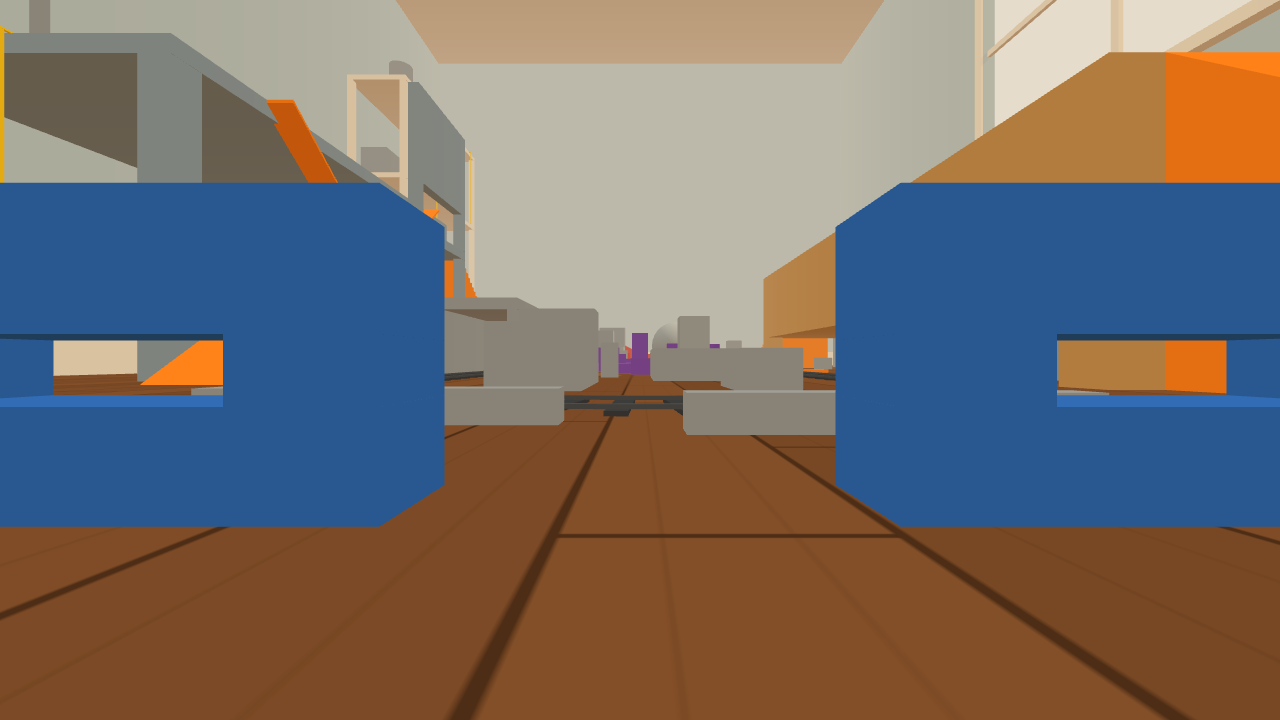
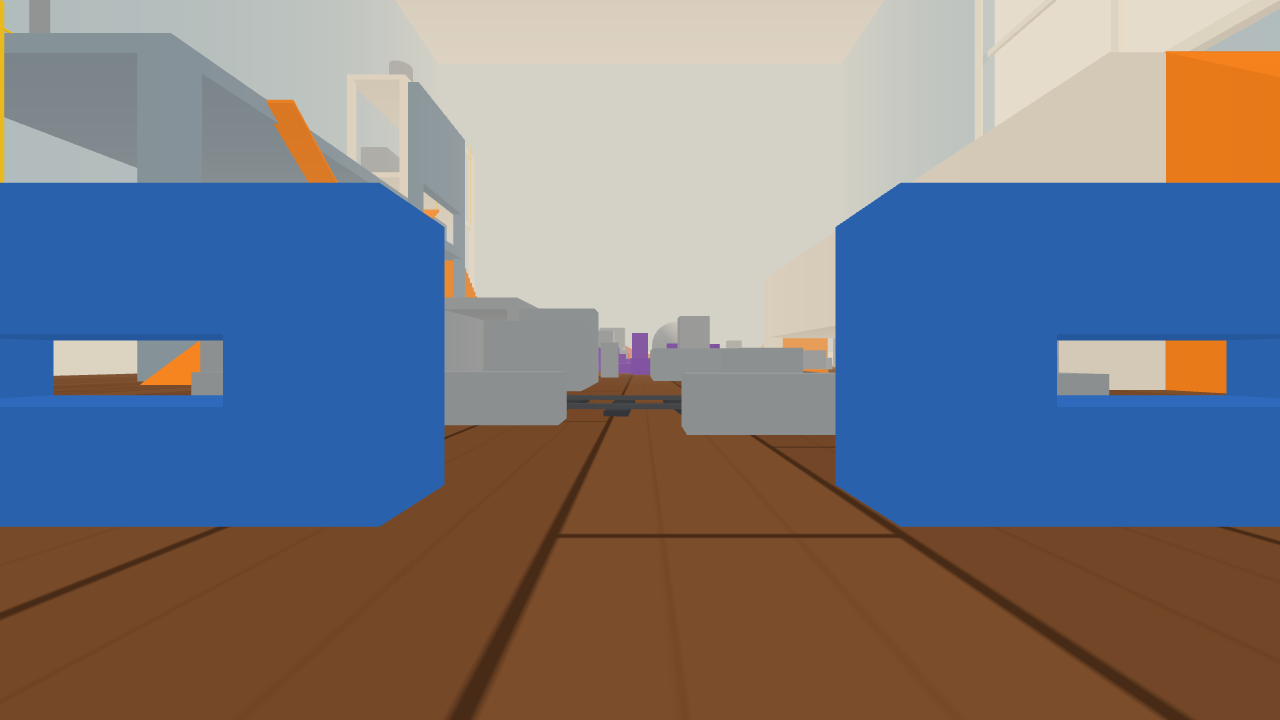
Checkpoint Round 1 fix pass in progress
Work-in-progress snapshot of the builder's fixes so nothing is lost if
the container is reclaimed; not yet verified by the testers.

Claude-Session: https://claude.ai/code/session_01JNcTgQhGiWa2cD86NUYwZY

diff --git a/bedroom-battalion/index.html b/bedroom-battalion/index.html
@@ -55,29 +55,32 @@ const CONFIG = {
             eyeLerp: 7,          // u/s the eye moves between stand and crouch height
             stepSmooth: 16 },    // 1/s decay of the camera offset that hides step-up pops
   move: { walk: 5, sprint: 7, crouch: 2.5,
-          groundAccelTime: 0.10, groundStopTime: 0.08, airControl: 0.25,
+          groundAccelTime: 0.10, groundStopTime: 0.08, airControl: 0.12,
           gravity: 22, jumpVel: 7.8, stepUp: 0.65, maxSlopeDeg: 50, slopeSpeedKeep: true,
           airStep: 0.2,          // ledge height forgiven while airborne
           jumpBuffer: 0.12, coyote: 0.08 },
-  climb: { speed: 3.5, grabRadius: 0.8, exitDist: 1, snapSpeed: 6, regrab: 0.45, stringHalfWidth: 0.11 },
+  climb: { speed: 5.5, grabRadius: 0.8, exitDist: 1, snapSpeed: 6, regrab: 0.45, stringHalfWidth: 0.11,
+           topRegrab: 0.5,      // s the string just topped out cannot be grabbed again
+           drawAbove: 2 },      // strings are drawn this far above their top surface so they show from on top
   fall: { safe: 10, perUnit: 5 },
   spring: { launchVel: [-4.5, 31, 0] },
-  camera: { fovVertical: 75, near: 0.05, far: 400 },
-  fog: { near: 30, far: 330 },
+  camera: { fovVertical: 75, near: 0.05, far: 400 },   // read live every frame
+  fog: { near: 10, far: 220 },                      // read live every frame, like camera
   sim: { hz: 60, maxStepsPerFrame: 15 },
   input: { sensitivity: 0.0022, pitchLimit: 1.54 },
   room: { x: 120, y: 90, z: 160, wall: 2, outY: -5 },
-  light: { sunDir: [1, -1, 0.15], sunIntensity: 2.4, hemiIntensity: 3.4,
+  light: { sunDir: [1, -1, 0.15], sunIntensity: 3.0, hemiIntensity: 3.0,
            shadowMap: 2048, shadowBias: -0.0005, shadowNormalBias: 0.02, shadowRadius: 2 },
   floor: { plank: 3.2, gap: 0.12, texPlanks: 4, texLength: 25.6 },
+  route: { lap: 1.5, lapThick: 0.05 },             // route colour lapped onto the surface at every ramp, bridge and stair head
   track: { cx: 60, xWest: 43, xEast: 77, z0: 52.5, z1: 107.5, radius: 17, gauge: 3.2, sleeperGap: 2,
            height: 0.3, sleeperLen: 4.4, sleeperWid: 0.7, railWid: 0.28 },
   spawn: { green: [60, 0, 20, Math.PI], tan: [60, 0, 140, 0] },
   nav: { arrive: 0.3, arriveY: 0.75, stuckTime: 2.5, timeout: 120, sweepStep: 0.1 },
   color: {
     haze: '#E6DCCB', wall: '#BFD3E0', trim: '#F2EFE6', ceiling: '#F5F2EA', plank: '#7A4E2E', plankGap: '#4A2E1A',
-    sun: '#FFE2B0', hemiSky: '#FFF1D6', hemiGround: '#B08D6A',
-    bed: '#C79A5E', blanket: '#3D5A99', sheet: '#E8EEF5', desk: '#8FA3B5', shelf: '#EFE9DD',
+    sun: '#FFE2B0', hemiSky: '#FFF8EC', hemiGround: '#D8CFC4',
+    bed: '#E9E4DA', blanket: '#3D5A99', sheet: '#E8EEF5', desk: '#8FA3B5', shelf: '#EFE9DD',
     fortGreen: '#2F6FD0', fortTan: '#D43C2E', ruin: '#7B4BB5',
     route: '#FF8A1F', string: '#FFD21F', cover: '#9AA3AD', spare: '#B9BEC6', track: '#4B5058', sleeper: '#3A3E45',
     hud: '#FFFFFF', accent: '#FFD21F', danger: '#E0281F'
@@ -274,7 +277,7 @@ function cyl(id, x, z, r, y0, y1, color, surface) {
 }
 function climbString(id, x, z, y0, y1, ex, ez) {
   const w = CONFIG.climb.stringHalfWidth;
-  vbox(x - w, x + w, z - w, z + w, y0, y1, CONFIG.color.string);
+  vbox(x - w, x + w, z - w, z + w, y0, y1 + CONFIG.climb.drawAbove, CONFIG.color.string);      // collider still ends at y1
   vbox(Math.min(x, x + ex * 0.7) - w, Math.max(x, x + ex * 0.7) + w, Math.min(z, z + ez * 0.7) - w, Math.max(z, z + ez * 0.7) + w, y1 - 0.02, y1 + 0.1, CONFIG.color.string);
   const c = addCollider({ id, kind: 'string', surface: 'fabric', x, z, ex, ez, x0: x - w, x1: x + w, y0, y1, z0: z - w, z1: z + w });
   STRINGS.push(c);
@@ -286,6 +289,7 @@ function stairs(id, x0, x1, zFoot, dir, n, rise, depth) {       // book stairs: 
     ibox(id + '.' + i, x0, x1, Math.min(za, zb), Math.max(za, zb), 0, rise * i, CONFIG.color.route, 'book');
   }
 }
+function lap(x0, x1, z0, z1, y) { vbox(x0, x1, z0, z1, y, y + CONFIG.route.lapThick, CONFIG.color.route); }   // visual only
 const mz = (z0, z1, mirror) => (mirror ? [160 - z1, 160 - z0] : [z0, z1]);     // north-south mirror rule
 function boxNS(id, x0, x1, z0, z1, y0, y1, color, surface) {    // object that exists on both halves
   box('n.' + id, x0, x1, z0, z1, y0, y1, color, surface);
@@ -385,6 +389,7 @@ function buildWorld(scene, renderer) {
   box('desk.notebook', 99, 111, 74, 86, 26, 26.4, G, 'book');
   for (let k = 0; k < 3; k++) box('desk.books.' + k, 111 + 0.6 * k, 119 - 0.6 * k, 86 + 0.6 * k, 93 - 0.6 * k, 26 + 1.2 * k, 27.2 + 1.2 * k, G, 'book');
   cyl('desk.pencilcup', 115.5, 98, 2.6, 26, 35, G, 'metal');
+  cyl('chair.stopper.n', 92.45, 73.3, 0.5, 17, 18, G, 'wood'); cyl('chair.stopper.s', 92.2, 86.7, 0.5, 17, 18, G, 'wood');   // seat stoppers
   boxNS('desk.eraser', 104, 108, 66, 68, 0, 1.2, G, 'plastic');
   cyl('desk.paperball', 108, 80, 2.5, 0, 4.5, G, 'card');
 
@@ -398,6 +403,7 @@ function buildWorld(scene, renderer) {
   box('s.tall.landing', 103.5, 108, 116, 122.1, 0, 20, RT, 'book');
   stairs('n.small.books', 103.5, 108, 9, 1, 34, 20 / 34, 0.85);                                   // route small_stairs
   box('n.small.landing', 103.5, 108, 37.9, 44, 0, 20, RT, 'book');
+  box('s.tall.guard', 108, 108.6, 122.1, 151, 0, 19, G, 'book'); box('n.small.guard', 108, 108.6, 9, 37.9, 0, 19, G, 'book');   // stair guards
   climbString('s.tall.str.L2a', 107.6, 130, 20, 40, 1, 0); climbString('s.tall.str.L2b', 107.6, 146, 20, 40, 1, 0);
   climbString('s.tall.str.L3a', 107.6, 136, 40, 60, 1, 0); climbString('s.tall.str.L3b', 107.6, 152, 40, 60, 1, 0);
   climbString('n.small.str.L2a', 107.6, 30, 20, 40, 1, 0); climbString('n.small.str.L2b', 107.6, 14, 20, 40, 1, 0);
@@ -406,6 +412,15 @@ function buildWorld(scene, renderer) {
   cyl('s.tall.L3.trophy', 115, 128, 2.5, 60, 69, G, 'metal'); box('s.tall.L3.books', 112, 119, 142, 149, 60, 61.2, G, 'book');
   box('n.small.L1.books', 114, 119.5, 18, 26, 20, 27, G, 'book'); cyl('n.small.L1.pot', 115, 36, 2, 20, 24, G, 'plastic');
   box('n.small.L2.books', 112, 119, 20, 27, 40, 41.2, G, 'book'); box('n.small.L2.clock', 113, 118, 34, 37, 40, 44, G, 'metal');
+
+  // ---- 4.4 route colour lapped 1.5 onto the surface each ramp, bridge and stair head reaches ----
+  const LP = CONFIG.route.lap;
+  lap(20, 32, 45, 45 + LP, 18); lap(22, 30, 115 - LP, 115, 18);                        // blanket slope, bed book stairs
+  lap(86, 92, 73, 73 + LP, 17); lap(86, 92, 87 - LP, 87, 17);                          // skateboard, chair book stairs
+  lap(95.5, 95.5 + LP, 64, 67, 26); lap(95.5, 95.5 + LP, 93, 96, 26);                  // ruler ramps onto the desk
+  lap(110, 113, 55, 55 + LP, 26); lap(110, 113, 44 - LP, 44, 20);                      // ruler bridge north: desk end, shelf end
+  lap(110, 113, 105 - LP, 105, 26); lap(110, 113, 116, 116 + LP, 20);                  // ruler bridge south
+  lap(108, 108 + LP, 117.2, 122.1, 20); lap(108, 108 + LP, 37.9, 42.8, 20);            // shelf book stairs onto L1
 
   // ---- 5. forts and ruin ----
   buildFort('n', false, C.fortGreen);
@@ -431,7 +446,8 @@ function buildWorld(scene, renderer) {
   // ---- 6. floor cover ----
   boxNS('W-a.1', 37, 40, 28, 31, 0, 3, G, 'wood'); boxNS('W-a.2', 37, 40, 31, 34, 0, 6, G, 'wood'); boxNS('W-a.3', 34, 37, 31, 34, 0, 3, G, 'wood');
   boxNS('W-b.car', 33, 36, 56, 62, 0, 2.2, G, 'plastic');
-  boxNS('C-a.crayon1', 50, 59, 30, 30.9, 0, 0.9, G, 'plastic'); boxNS('C-a.crayon2', 62, 71, 31.5, 32.4, 0, 0.9, G, 'plastic');
+  boxNS('W-c', 33, 36, 69, 72, 0, 3, G, 'wood');
+  boxNS('C-a.crayon1', 50, 59, 30, 31.3, 0, 1.3, G, 'plastic'); boxNS('C-a.crayon2', 62, 71, 31.5, 32.8, 0, 1.3, G, 'plastic');   // jumbo crayons
   boxNS('C-b.car', 52, 55, 43, 49, 0, 2.2, G, 'plastic');
   box('n.C-c.truck.bed', 63, 68, 44, 51, 0, 3.6, G, 'plastic'); box('n.C-c.truck.cab', 63, 68, 51, 54, 0, 5, G, 'plastic');
   box('s.C-c.marble.ramp', 63, 68, 106, 113, 0, 4, G, 'plastic'); box('s.C-c.marble.tower', 63, 68, 113, 116, 0, 8, G, 'plastic');
@@ -445,6 +461,7 @@ function buildWorld(scene, renderer) {
   box('n.C-f.block', 53, 56, 67, 70, 0, 6, G, 'wood'); box('s.C-f.block', 64, 67, 90, 93, 0, 6, G, 'wood');
   boxNS('E-a.1', 80, 83, 30, 33, 0, 6, G, 'wood'); boxNS('E-a.2', 83, 86, 30, 33, 0, 3, G, 'wood'); boxNS('E-a.3', 80, 83, 33, 36, 0, 3, G, 'wood');
   boxNS('E-b.car', 110, 116, 46, 49, 0, 2.2, G, 'plastic');
+  box('n.E-c', 79.5, 82.5, 44, 47, 0, 3, G, 'wood');
   box('tunnel.wall.w', 72.6, 73.6, 68, 92, 0, 6.8, G, 'card'); box('tunnel.wall.e', 80.4, 81.4, 68, 92, 0, 6.8, G, 'card');
   box('tunnel.roof', 72.6, 81.4, 68, 92, 6.8, 8, G, 'card');
 
@@ -626,6 +643,12 @@ function pushCircleCyl(pos, r, c) {
   pos.x = c.x + _n.x * rr; pos.z = c.z + _n.z * rr;
   return true;
 }
+// Push the circle out of the part of one collider inside the band (yLo, yHi). Normal left in _n.
+function pushOutOf(pos, r, c, yLo, yHi) {
+  if (c.kind === 'cyl') return c.y1 > yLo && c.y0 < yHi && pushCircleCyl(pos, r, c);
+  return blockRect(c, yLo, yHi, _R) && pushCircleRect(pos, r, _R);
+}
+function slideVelocity(vel) { const d = vel.vx * _n.x + vel.vz * _n.z; if (d < 0) { vel.vx -= d * _n.x; vel.vz -= d * _n.z; } }
 // Wall pass: push the circle out of everything taller than the step threshold and lower than the head.
 function resolveWalls(pos, r, feet, height, grounded, vel) {
   const M = CONFIG.move, head = feet + height, thr = grounded ? M.stepUp : M.airStep;
@@ -634,16 +657,8 @@ function resolveWalls(pos, r, feet, height, grounded, vel) {
     const list = near(pos.x, pos.z, r + 0.05);
     for (let k = 0; k < list.length; k++) {
       const c = list[k];
-      let pushed = false;
-      if (c.kind === 'cyl') { if (c.y1 > feet + thr && c.y0 < head) pushed = pushCircleCyl(pos, r, c); }
-      else {
-        const lo = c.kind === 'ramp' ? feet + (c.steep ? 0.02 : M.stepUp) : feet + thr;
-        if (blockRect(c, lo, head, _R)) pushed = pushCircleRect(pos, r, _R);
-      }
-      if (pushed) {
-        hit = true;
-        if (vel && grounded) { const d = vel.vx * _n.x + vel.vz * _n.z; if (d < 0) { vel.vx -= d * _n.x; vel.vz -= d * _n.z; } }
-      }
+      const lo = c.kind === 'ramp' ? feet + (c.steep ? 0.02 : M.stepUp) : feet + thr;
+      if (pushOutOf(pos, r, c, lo, head)) { hit = true; if (vel && grounded) slideVelocity(vel); }
     }
     if (!hit) break;
   }
@@ -733,7 +748,7 @@ const player = {
   onGround: true, ground: null, surface: 'wood', crouching: false,
   climbing: null, climbNeedRelease: false, grabCooldown: 0,
   health: CONFIG.player.health, peakY: 0, coyote: 0, jumpBuf: 0, jumpHeld: false,
-  launched: false, launchX: 0, launchZ: 0, warped: false,
+  launched: false, launchX: 0, launchZ: 0, warped: false, fwdLock: false, noGrab: null, noGrabT: 0,
   stepOff: 0, pstepOff: 0, moved: 0, safe: { x: 60, y: 0, z: 20 }
 };
 const damageLog = [];
@@ -747,7 +762,7 @@ function placePlayer(x, y, z, yaw, pitch) {
   if (yaw !== undefined && yaw !== null) p.yaw = wrapAngle(yaw);
   if (pitch !== undefined && pitch !== null) p.pitch = clamp(pitch, -CONFIG.input.pitchLimit, CONFIG.input.pitchLimit);
   p.climbing = null; p.launched = false; p.stepOff = p.pstepOff = 0; p.peakY = y; p.coyote = 0; p.jumpBuf = 0; p.moved = 0;
-  p.warped = true;
+  p.warped = true; p.fwdLock = false; p.noGrab = null; p.noGrabT = 0;
   const g = groundBelow(x, z, P.radius, y + 0.05, y + 0.05);
   p.onGround = g.c !== null && y - g.y < 0.05;
   p.ground = p.onGround ? g.c : null;
@@ -772,15 +787,15 @@ function land(p, g) {
   p.y = g.y; p.vy = 0; p.onGround = true; p.ground = g.c; p.launched = false;
   if (fall > F.safe) hurtPlayer((fall - F.safe) * F.perUnit, 'fall', { height: fall });
 }
-function releaseString(p, cooldown) { p.climbing = null; p.grabCooldown = cooldown; p.climbNeedRelease = false; }
+function releaseString(p, cooldown) { p.climbing = null; p.grabCooldown = cooldown; p.climbNeedRelease = false; p.coyote = 0; }   // never a free jump
 
 function tryGrabString(p, wx, wz) {
   const K = CONFIG.climb;
   for (const s of STRINGS) {
-    if (p.y < s.y0 - 0.05 || p.y > s.y1 + 0.05) continue;
+    if (p.y < s.y0 - 0.05 || p.y > s.y1 + 0.05 || (s === p.noGrab && p.noGrabT > 0)) continue;
     const dx = s.x - p.x, dz = s.z - p.z, d = Math.hypot(dx, dz);
     if (d > K.grabRadius || (d > 0.05 && dx * wx + dz * wz <= 0)) continue;       // must be walking into it
-    p.climbing = s; p.vx = p.vy = p.vz = 0; p.onGround = false; p.ground = null; p.launched = false;
+    p.climbing = s; p.vx = p.vy = p.vz = 0; p.onGround = false; p.ground = null; p.launched = false; p.coyote = 0;
     p.climbNeedRelease = inp.forward && p.y > s.y1 - 0.3;     // grabbed from the top: forward must be re-pressed to exit again
     return true;
   }
@@ -797,7 +812,8 @@ function tickClimb(p, dt) {
   p.y = clamp(p.y + p.vy * dt, s.y0, s.y1);
   const ex = s.x + s.ex * K.exitDist, ez = s.z + s.ez * K.exitDist;
   if (dir > 0 && p.y >= s.y1) {                                    // top: placed on the surface along the exit direction
-    releaseString(p, 0);       // no re-grab delay here: walking back at the string hangs you on it instead of off the edge
+    releaseString(p, 0);
+    p.fwdLock = inp.forward; p.noGrab = s; p.noGrabT = K.topRegrab;      // holding forward leaves you standing on the surface
     p.x = ex; p.z = ez; p.y = s.y1; p.vy = 0;
     const g = groundBelow(ex, ez, r, s.y1 + 0.05, s.y1 + 0.05);
     if (g.c && s.y1 - g.y < 0.05) { p.onGround = true; p.ground = g.c; } else p.peakY = p.y;
@@ -812,9 +828,15 @@ function tickClimb(p, dt) {
   }
 }
 
+// True when the ground found is a step up that the player has no head room to take.
+function stepRefused(p, x, z, g) {
+  return g.c !== null && g.y > p.y + 0.02 && !volumeFree(x, z, CONFIG.player.radius, g.y + CONFIG.move.stepUp, g.y + p.height);
+}
 function tickPlayer(dt) {
   const p = player, M = CONFIG.move, P = CONFIG.player, r = P.radius;
   readInput(inp);
+  if (p.fwdLock) { if (inp.forward) inp.forward = false; else p.fwdLock = false; }   // after topping out a string, forward must be released
+  p.noGrabT = Math.max(0, p.noGrabT - dt);
   p.warped = false;
   p.px = p.x; p.py = p.y; p.pz = p.z; p.peye = p.eye; p.pstepOff = p.stepOff;
   p.grabCooldown = Math.max(0, p.grabCooldown - dt);
@@ -867,9 +889,27 @@ function tickPlayer(dt) {
       if (p.onGround) {
         // ground follow: step up, step down, ramps (horizontal speed is not reduced on slopes)
         let g = groundBelow(nx, nz, r, p.y + M.stepUp, p.y + M.stepUp);
-        if (g.y > p.y + 0.02 && !volumeFree(nx, nz, r, g.y + M.stepUp, g.y + p.height)) {      // no head room on the step
-          nx = p.x; nz = p.z; p.vx = p.vz = 0;
-          g = groundBelow(nx, nz, r, p.y + M.stepUp, p.y + M.stepUp);
+        if (stepRefused(p, nx, nz, g)) {
+          // No head room on the step. It must act as a wall to slide along, never cancel the move.
+          // 1) slide along whatever takes the head room: resolve walls as if already standing on the step
+          _pos.x = nx; _pos.z = nz;
+          resolveWalls(_pos, r, g.y, p.height, true, p);
+          resolveWalls(_pos, r, p.y, p.height, true, p);
+          g = groundBelow(_pos.x, _pos.z, r, p.y + M.stepUp, p.y + M.stepUp);
+          if (stepRefused(p, _pos.x, _pos.z, g)) {
+            // 2) otherwise the step itself is the wall
+            _pos.x = nx; _pos.z = nz;
+            for (let k = 0; k < 3 && stepRefused(p, _pos.x, _pos.z, g); k++) {
+              if (pushOutOf(_pos, r, g.c, p.y + 0.02, p.y + p.height)) slideVelocity(p);
+              resolveWalls(_pos, r, p.y, p.height, true, p);
+              g = groundBelow(_pos.x, _pos.z, r, p.y + M.stepUp, p.y + M.stepUp);
+            }
+            if (stepRefused(p, _pos.x, _pos.z, g)) {      // boxed in on every side: hold position this tick, keep the velocity
+              _pos.x = p.x; _pos.z = p.z;
+              g = groundBelow(p.x, p.z, r, p.y + 0.02, p.y + M.stepUp);
+            }
+          }
+          nx = _pos.x; nz = _pos.z;
         }
         if (g.c && g.y >= p.y - M.stepUp) {
           const d = g.y - p.y;
@@ -976,7 +1016,7 @@ function buildWaypoints() {
     add('ramp', `${h}.f.rampfoot>${h}.f.tower`);
     // edges shared by both halves of 9.2, 9.3 and 9.4
     add('walk', `${h}.f.wdoor>${h}.w.1 ${h}.ub.n>${h}.ub.1 ${h}.ub.1>${h}.ub.2 ${h}.ub.2>${h}.ub.e ${h}.ub.2>m.ub ${h}.ub.e>m.ub ${h}.ub.e>${h}.w.4
-      ${h}.w.1>${h}.w.2 ${h}.w.2>${h}.w.3 ${h}.w.3>${h}.w.x ${h}.w.x>${h}.w.4 ${h}.w.4>${h}.w.5 ${h}.w.5>${h}.ub.e ${h}.bed.b>m.bed
+      ${h}.w.1>${h}.w.2 ${h}.w.2>${h}.w.3 ${h}.w.3>${h}.w.x ${h}.w.x>${h}.w.4 ${h}.w.4>${h}.w.5 ${h}.bed.b>m.bed
       ${h}.c.2>${h}.c.3 ${h}.c.3>${h}.c.4 ${h}.c.4>${h}.c.5 ${h}.c.3>${h}.c.x ${h}.c.x>${h}.c.w ${h}.c.w>m.c.w ${h}.c.4>${h}.c.y ${h}.c.y>${h}.c.e ${h}.c.e>m.c.e
       ${h}.f.edoor>${h}.e.1 ${h}.e.1>${h}.e.2 ${h}.e.2>${h}.e.3w ${h}.e.3w>${h}.e.3 ${h}.e.3w>${h}.e.x ${h}.e.x>${h}.e.6 ${h}.e.6>m.e.w ${h}.e.2>${h}.e.4
       ${h}.e.4>${h}.e.5 ${h}.e.5>m.e ${h}.seat>m.seat ${h}.seat>${h}.rul.foot m.seat>${h}.rul.foot ${h}.rul.top>${h}.desk.w ${h}.desk.w>${h}.desk.1 ${h}.desk.w>m.desk`);
@@ -1002,6 +1042,8 @@ function buildWaypoints() {
   add('drop', 'm.seat>m.tunnel.top', true);
 }
 // One node list per route in DESIGN.md section 4.4
+// Edge removed in round 1 pass 2: w.5 - ub.e (both halves). Cover block W-c (33..36, 69..72 and its mirror) sits on that leg, and
+// no move of ub.e and w.5 within the 2 unit allowance clears it without blocking ub.e - m.ub. w.5 still reaches ub.e through w.4.
 const ROUTES = {
   bed_blanket: ['n.w.1', 'n.w.ramp', 'n.bed.end', 'n.bed.b'],
   bed_books: ['s.bs.app', 's.bs.foot', 's.bed.end', 's.bed.d'],
@@ -1175,8 +1217,17 @@ let renderer, camera, scene;
 let lastFrame = 0, accumulator = 0;
 const _look = new THREE.Vector3();
 
+function applyLiveConfig() {      // CONFIG.camera and CONFIG.fog are re-read every frame, so hook changes show on the next render
+  const C = CONFIG.camera, F = CONFIG.fog;
+  if (camera.fov !== C.fovVertical || camera.near !== C.near || camera.far !== C.far) {
+    camera.fov = C.fovVertical; camera.near = C.near; camera.far = C.far;
+    camera.updateProjectionMatrix();
+  }
+  scene.fog.near = F.near; scene.fog.far = F.far;
+}
 function renderFrame(alpha) {
   const p = player;
+  applyLiveConfig();
   if (game.view) {
     const v = VIEWS[game.view];
     camera.position.set(v[0][0], v[0][1], v[0][2]);
@@ -1252,7 +1303,7 @@ function walkPath(ids, opts = {}) {
       if (t >= timeout || sinceBest > NV.stuckTime) { stuckAt = ids[i]; break outer; }
       for (const k of INPUT_NAMES) vinput[k] = false;
       if (p.climbing) { const s = p.climbing; if (Math.abs(B[1] - s.y1) < Math.abs(B[1] - s.y0)) vinput.forward = true; else vinput.back = true; }
-      else if (p.launched) { /* ride the launch with no input */ }
+      else if (p.launched || p.fwdLock) { /* ride the launch with no input; release forward after topping out a string */ }
       else {
         if (str && dy > 1) aim(str.x, str.z); else aim(B[0], B[2]);
         vinput.forward = true; vinput.sprint = sprint;
